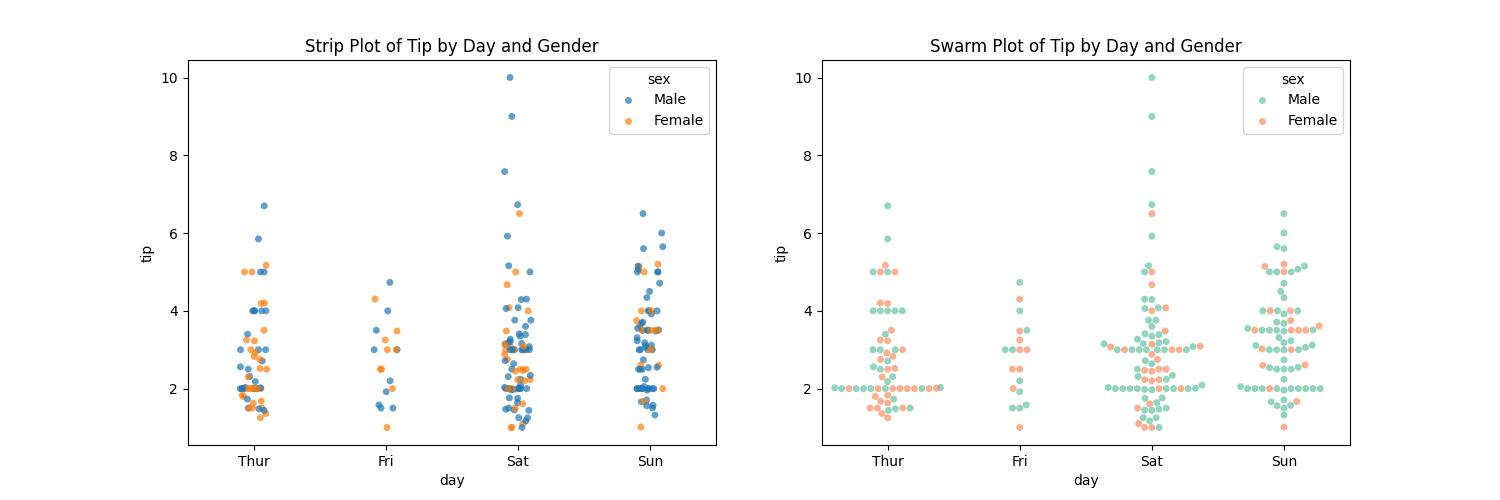
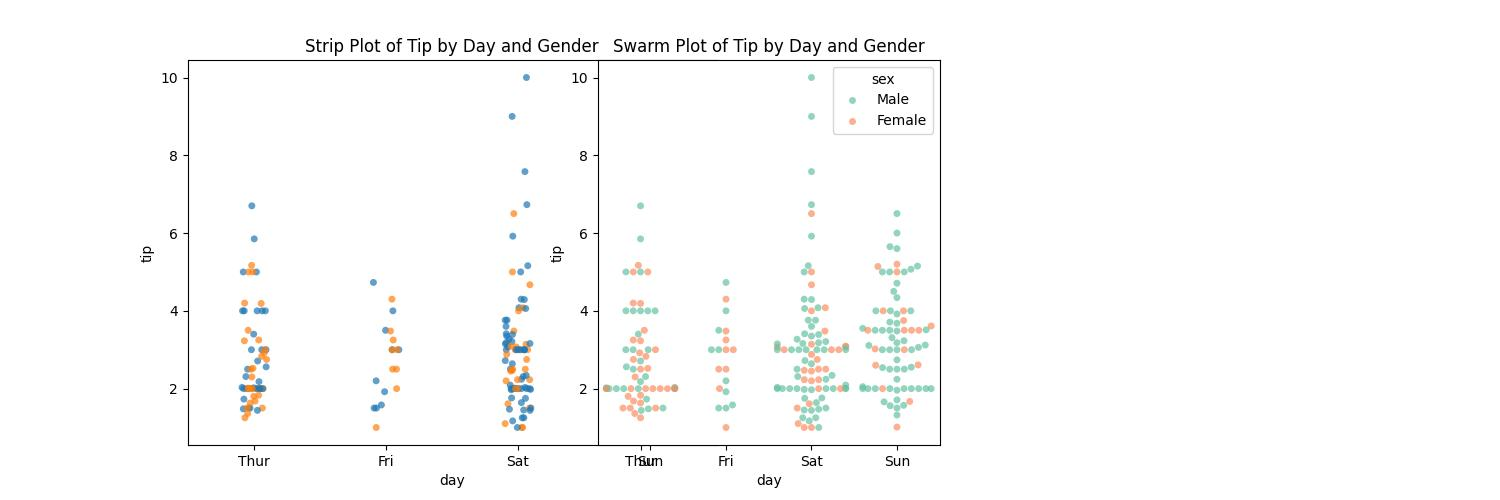
Updated Changes

diff --git a/week04/seaborn_code.py b/week04/seaborn_code.py
@@ -16,7 +16,7 @@ import matplotlib.pyplot as plt
 # figure에 2개의 서브 플롯을 생성
 fig = plt.figure(figsize=(15, 5))
 ax1 = fig.add_subplot(1, 2, 1)
-ax2 = fig.add_subplot(1, 2, 2)
+ax2 = fig.add_subplot(1, 3, 3)
 
 # stripplot( ) 그리기
 sns.stripplot(x='day', y='tip', hue='sex', data=tips, alpha=0.7, ax=ax1)
